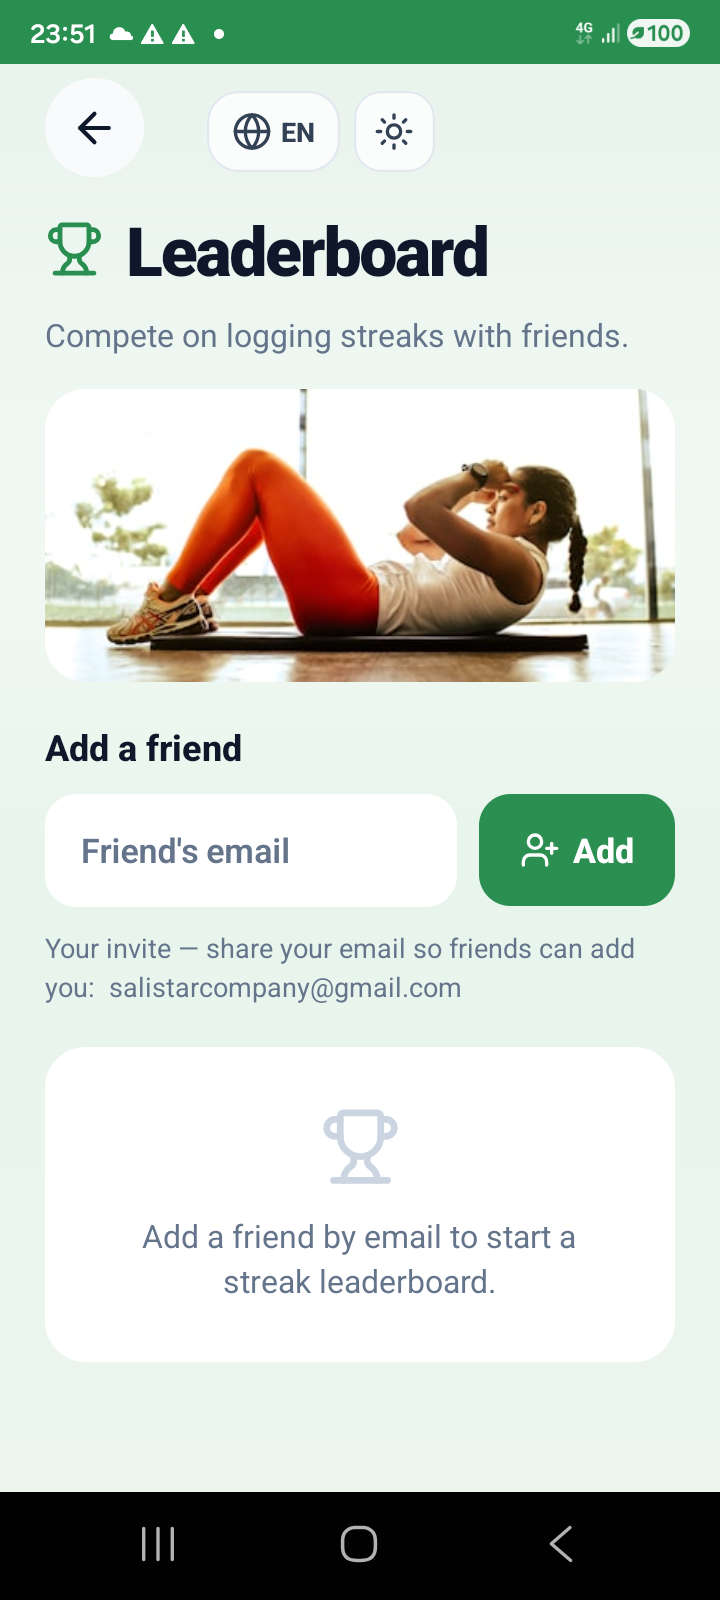
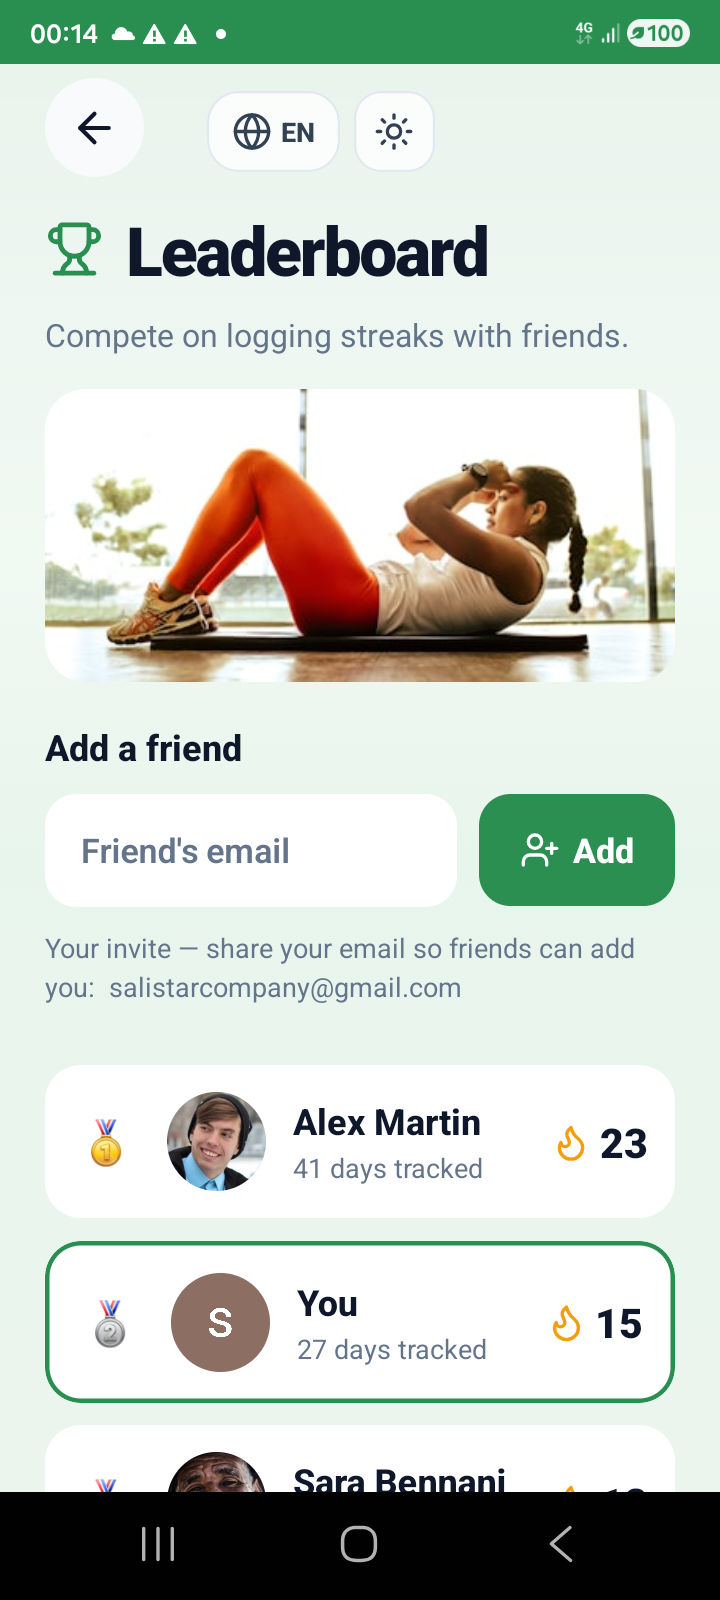
fix(personal-details): read/write email-keyed doc + seed demo friends
personal-details was using the clerk-id doc while the rest of the app (logs, weight, nutritionalPlan, coach, meal-plan) uses the email-keyed doc — so it showed stale placeholders. Now reads/writes users/{emailToDocId} with setDoc(merge) and refreshes the local profile cache. Seeder now also creates 4 demo friends with publicStats + a friends list so the Social leaderboard is populated. Verified on device: targets show 2200/160/230/70; leaderboard ranks Alex/You/Sara/Youssef/Lina by streak.

diff --git a/app/personal-details.tsx b/app/personal-details.tsx
@@ -24,8 +24,9 @@ import {
   CheckCircle2
 } from 'lucide-react-native';
 import { Colors } from '../constants/Colors';
-import { doc, getDoc, updateDoc } from 'firebase/firestore';
-import { db } from '../lib/firebase';
+import { doc, getDoc, setDoc } from 'firebase/firestore';
+import { db, emailToDocId } from '../lib/firebase';
+import AsyncStorage from '@react-native-async-storage/async-storage';
 import Animated, { FadeInDown, FadeInRight } from 'react-native-reanimated';
 
 export default function PersonalDetailsScreen() {
@@ -45,7 +46,10 @@ export default function PersonalDetailsScreen() {
     const fetchGoals = async () => {
       if (!user) return;
       try {
-        const userDoc = await getDoc(doc(db, 'users', user.id));
+        // Email-keyed doc (consistent with the rest of the app: logs, weight,
+        // nutritionalPlan are all stored under users/{emailToDocId}).
+        const email = user.primaryEmailAddress?.emailAddress || '';
+        const userDoc = await getDoc(doc(db, 'users', emailToDocId(email)));
         if (userDoc.exists()) {
           const data = userDoc.data();
           const plan = data.nutritionalPlan || {};
@@ -70,15 +74,26 @@ export default function PersonalDetailsScreen() {
     if (!user) return;
     setSaving(true);
     try {
-      const updates = {
-        'nutritionalPlan.calories': Number(goals.calories),
-        'nutritionalPlan.protein': Number(goals.protein),
-        'nutritionalPlan.carbs': Number(goals.carbs),
-        'nutritionalPlan.fat': Number(goals.fat),
-        'nutritionalPlan.water': Number(goals.water),
+      const email = user.primaryEmailAddress?.emailAddress || '';
+      const docId = emailToDocId(email);
+      const nutritionalPlan = {
+        calories: Number(goals.calories),
+        protein: Number(goals.protein),
+        carbs: Number(goals.carbs),
+        fat: Number(goals.fat),
+        water: Number(goals.water),
       };
 
-      await updateDoc(doc(db, 'users', user.id), updates);
+      // Email-keyed + merge so it always works and stays consistent app-wide.
+      await setDoc(doc(db, 'users', docId), { nutritionalPlan }, { merge: true });
+      // Refresh the local profile cache so Coach / Meal Plan pick up new targets.
+      try {
+        const key = `profile_${docId}`;
+        const raw = await AsyncStorage.getItem(key);
+        const prof = raw ? JSON.parse(raw) : {};
+        prof.nutritionalPlan = { ...(prof.nutritionalPlan || {}), ...nutritionalPlan };
+        await AsyncStorage.setItem(key, JSON.stringify(prof));
+      } catch {}
       
       Alert.alert('Success', 'Your personal details have been updated.', [
         { text: 'OK', onPress: () => router.back() }
